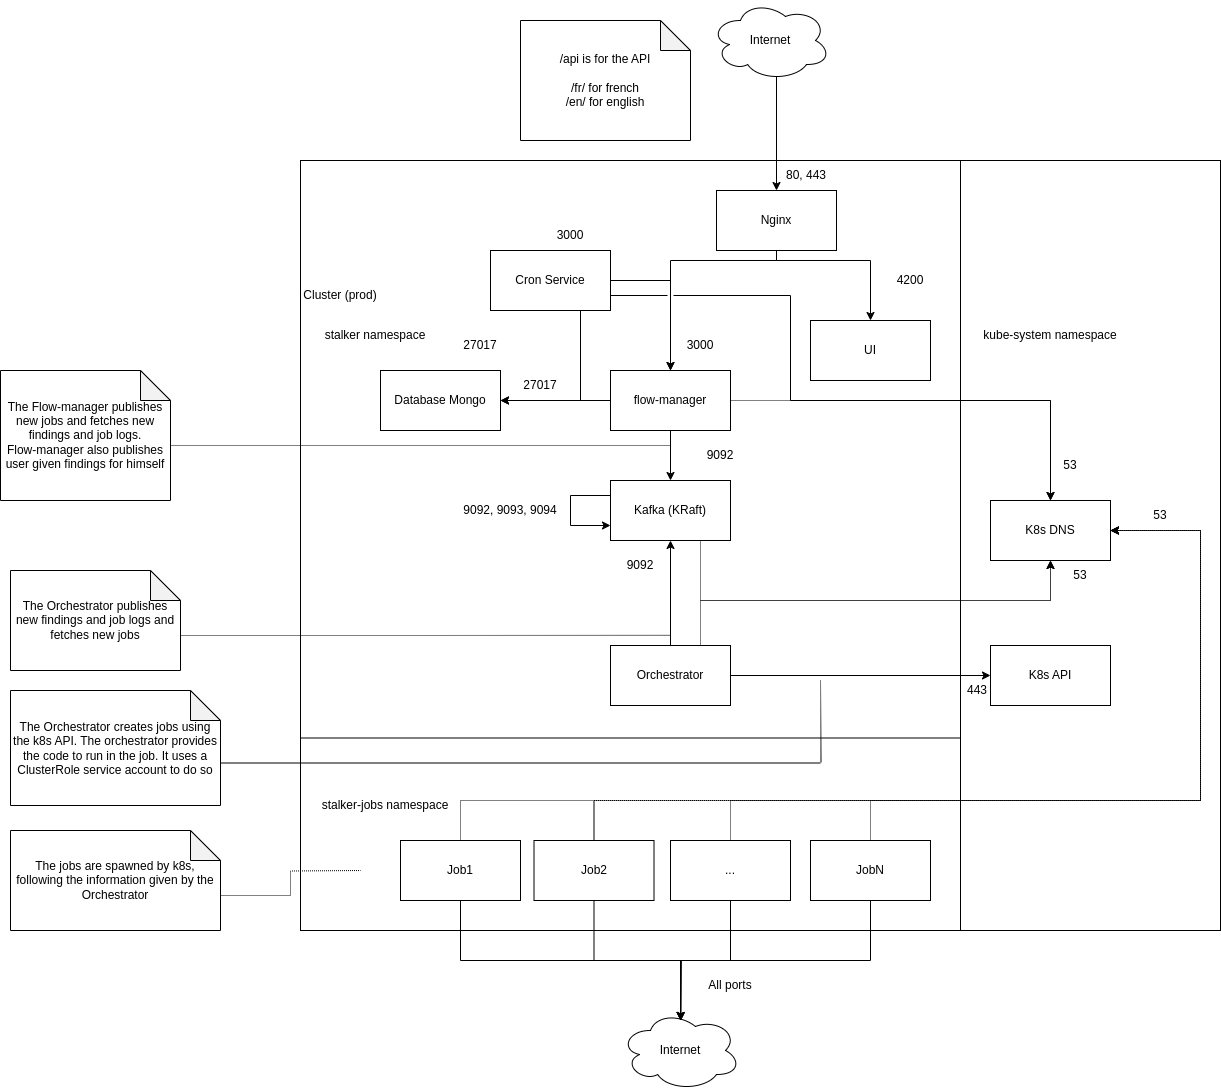
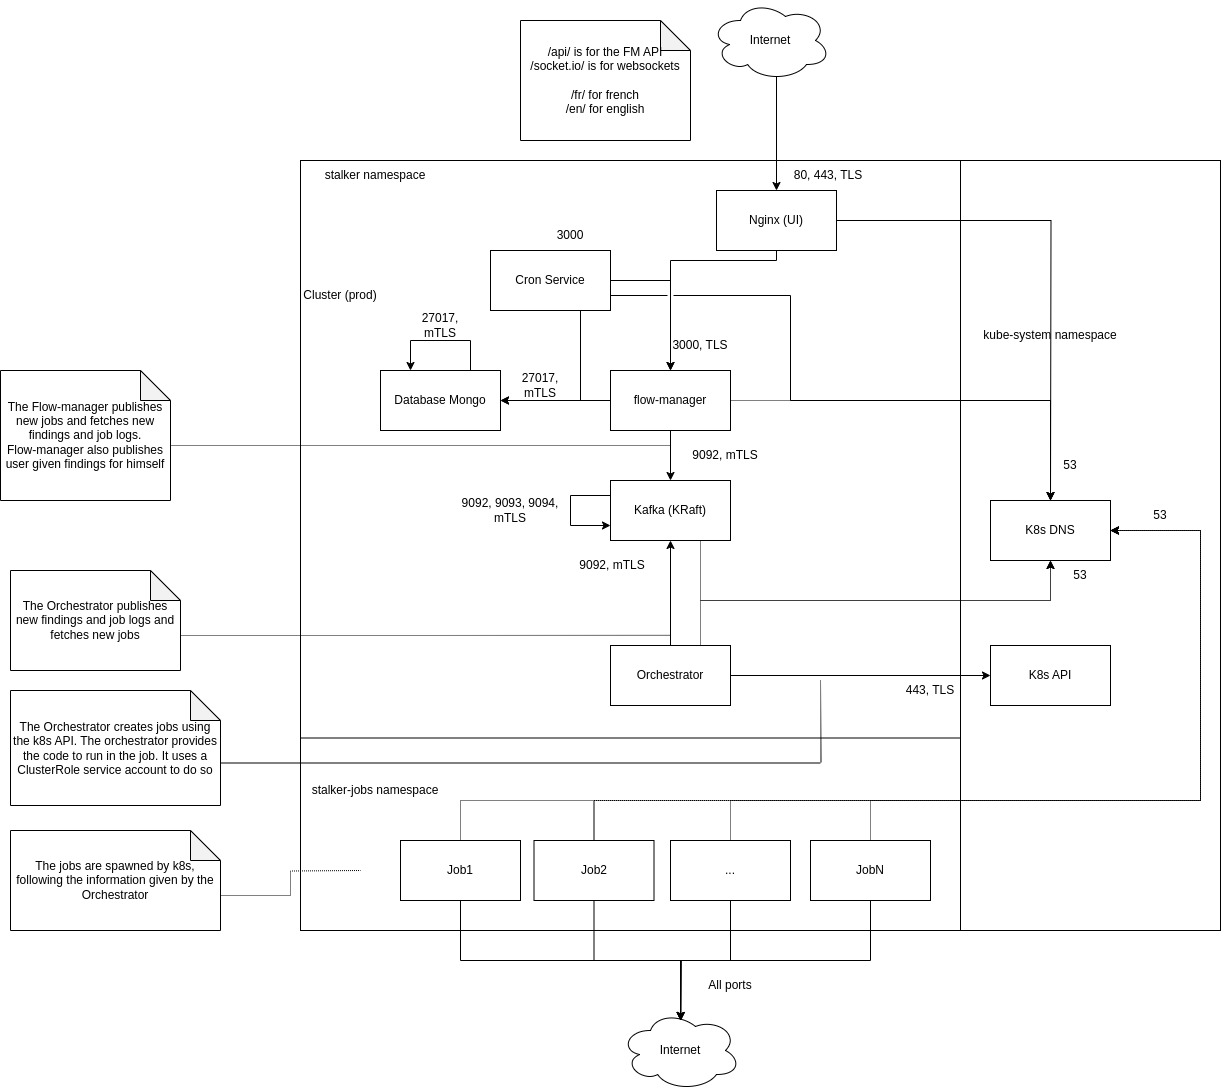
updating documentation

diff --git a/docs/architecture.md b/docs/architecture.md
@@ -5,6 +5,26 @@ The Stalker application is deployed in a Kubernetes cluster on a one instance pe
 
 > A **default deny all** network policy is in place for the `stalker`, `stalker-jobs` and `default` namespaces. Any pod in these namespaces require a custom network policy to allow any connectivity.
 
+## Production
+
+Microsegmentation is implemented throughout the cluster in the production environment following this graph:
+
+![Production Stalker Network Architecture](./ressources/prod_network_architecture.png)
+
+The following table goes over the main aspects of the graph :
+
+| Pod               | Ingress          | Egress                                                                      |
+| ----------------- | ---------------- | --------------------------------------------------------------------------- |
+| Nginx (UI)        | 80, 443          | 53 (DNS), 3000 (FM)                                                         |
+| Flow Manager (FM) | 3000             | 53 (DNS), 9092 (Kafka), 27017 (Mongo)                                       |
+| Cron Service      | Deny All         | 53 (DNS), 3000 (FM), 27017 (Mongo)                                          |
+| Mongo             | 27017            | Deny All                                                                    |
+| Kafka             | 9092, 9093, 9094 | 53 (DNS), 9092 (Kafka), 9093 (Kafka), 9094 (Kafka)                          |
+| Orchestrator      | Deny All         | 53 (DNS), 443 (K8s API), 9092 (Kafka)                                       |
+| Jobs              | Deny All         | 0.0.0.0/0 except 169.254.169.254, 172.16.0.0/12, 192.168.0.0/16, 10.0.0.0/8 |
+
+> You can access your local production Stalker instance through https://127.0.0.1:8443/
+
 ## Development
 
 Microsegmentation is implemented throughout the cluster in the dev environment following this graph:

diff --git a/docs/README.md b/docs/README.md
@@ -22,6 +22,7 @@ Stalker's API can be used by third-party tools for automated consumption.
 
 **Table of content**
 
+* [Installing Stalker](#installing-stalker)
 * [Core concepts](#core-concepts)
   * [Ressources](#ressources)
     * [Projects](#projects)
@@ -33,6 +34,59 @@ Stalker's API can be used by third-party tools for automated consumption.
     * [Findings](#findings)
     * [Subscriptions](#subscriptions)
 * [Acknowledgements](#acknowledgements)
+
+## Installing Stalker
+
+You can use Stalker with your own production ready deployment. Simply follow the few following steps.
+
+Install the dependencies:
+
+* minikube
+* docker
+* devspace
+* keytool
+* openssl
+
+Clone the repository:
+
+```bash
+git clone https://github.com/red-kite-solutions/Stalker && cd Stalker
+```
+
+Optionally edit your url and port in `setup.sh` to the URL and port that you will use to reach Stalker. The defaults are the following:
+
+```bash
+STALKER_HOSTNAME=stalker.lan
+STALKER_PORT=8443
+```
+
+Start Stalker:
+
+> When initializing for the first time, Stalker will prompt you several times for your root CA key's password.
+
+```bash
+chmod +x ./stalker && ./stalker
+```
+
+To prevent SSL errors, you then have to:
+
+* Add the `root_ca.crt` to your browser's accepted certificate authorities.
+* Add your `STALKER_HOSTNAME` to your `/etc/hosts` file.
+
+```text
+# STALKER_HOSTNAME in /etc/hosts
+127.0.0.1       stalker.lan
+```
+
+You are now ready to connect to Stalker at the following URL:
+
+<https://stalker.lan:8443/>
+
+Any time you want to start Stalker again in the future, simply run the start up script again:
+
+```bash
+./stalker
+```
 
 ## Core concepts
 
